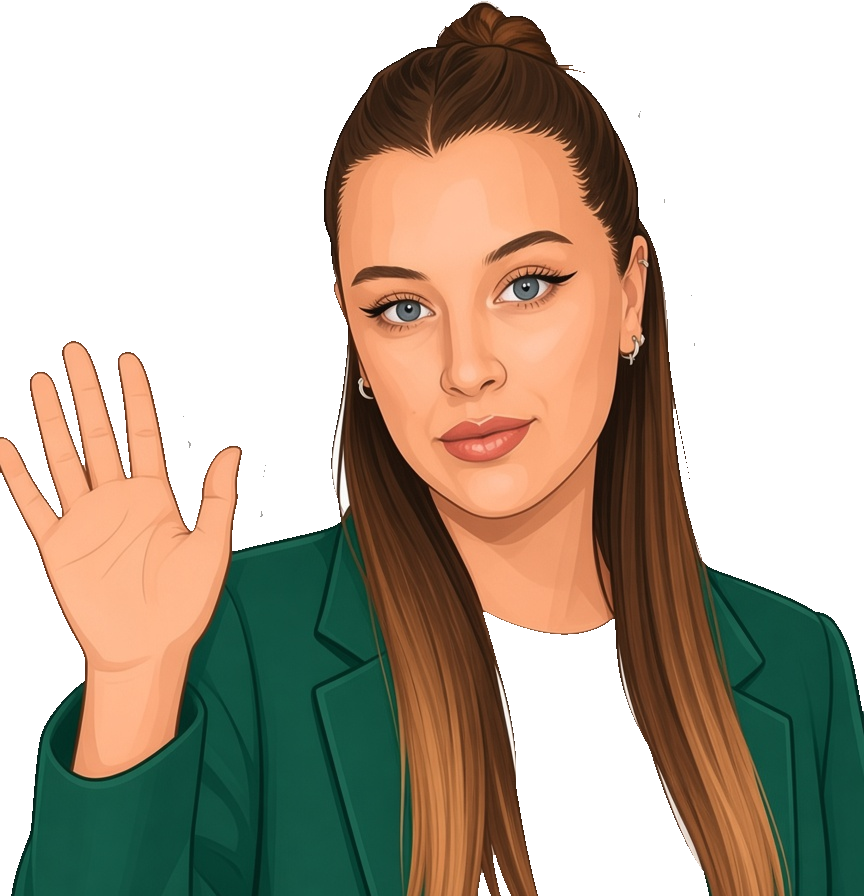
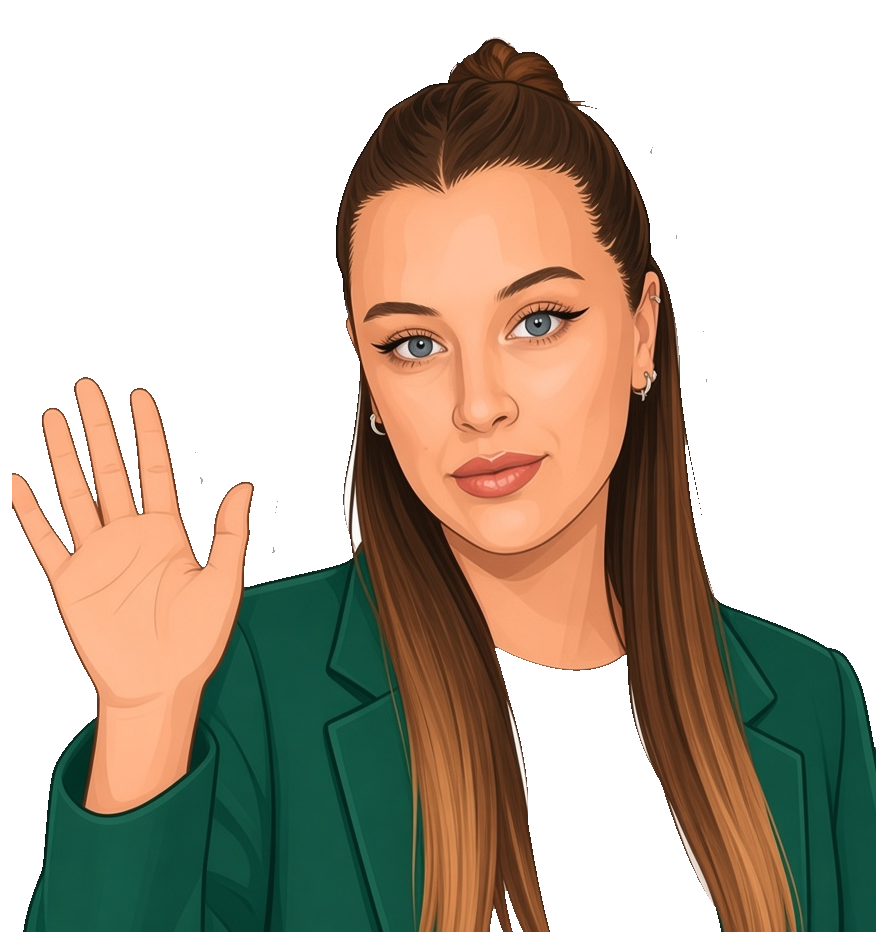
Stop clipping office caricature heads in the page header.

diff --git a/app.py b/app.py
@@ -476,18 +476,21 @@ st.markdown(
     }
 
     /* Cabecera de pantalla: en el flujo (no fixed). El overlay se recortaba. */
+    [data-testid="stMarkdownContainer"]:has(.ec-pagehead) {
+        overflow: visible !important;
+    }
     [data-testid="stMarkdownContainer"] .ec-pagehead,
     .ec-pagehead {
         display: flex !important;
         flex-direction: row !important;
         flex-wrap: nowrap !important;
-        align-items: stretch !important;
+        align-items: flex-end !important;
         justify-content: flex-start !important;
         gap: 0.7rem !important;
         margin: 0 0 1.15rem 0 !important;
-        padding: 0 !important;
+        padding: 0.15rem 0 0 0 !important;
         border-bottom: 1px solid var(--ec-line) !important;
-        overflow: hidden !important;
+        overflow: visible !important;
         background: transparent !important;
     }
     .ec-pagehead-copy {
@@ -500,27 +503,28 @@ st.markdown(
         position: relative !important;
         flex: 0 0 7rem !important;
         width: 7rem !important;
-        min-height: 0 !important;
-        overflow: hidden !important;
-        clip-path: inset(0 0 3px 0) !important;
+        align-self: stretch !important;
+        min-height: 8.6rem !important;
+        overflow: visible !important;
+        clip-path: none !important;
         margin: 0 !important;
         padding: 0 !important;
         background: transparent !important;
         border: 0 !important;
         box-shadow: none !important;
-        align-self: stretch !important;
     }
     .ec-saludo-avatar,
     .stMarkdown img.ec-saludo-avatar,
     [data-testid="stMarkdownContainer"] img.ec-saludo-avatar {
         position: absolute !important;
-        left: 50% !important;
+        left: 0 !important;
+        right: 0 !important;
+        top: 0 !important;
         bottom: 0 !important;
-        top: auto !important;
-        transform: translateX(-50%) !important;
-        width: auto !important;
+        transform: none !important;
+        width: 100% !important;
         height: 100% !important;
-        max-width: 7rem !important;
+        max-width: 100% !important;
         max-height: 100% !important;
         object-fit: contain !important;
         object-position: bottom center !important;
